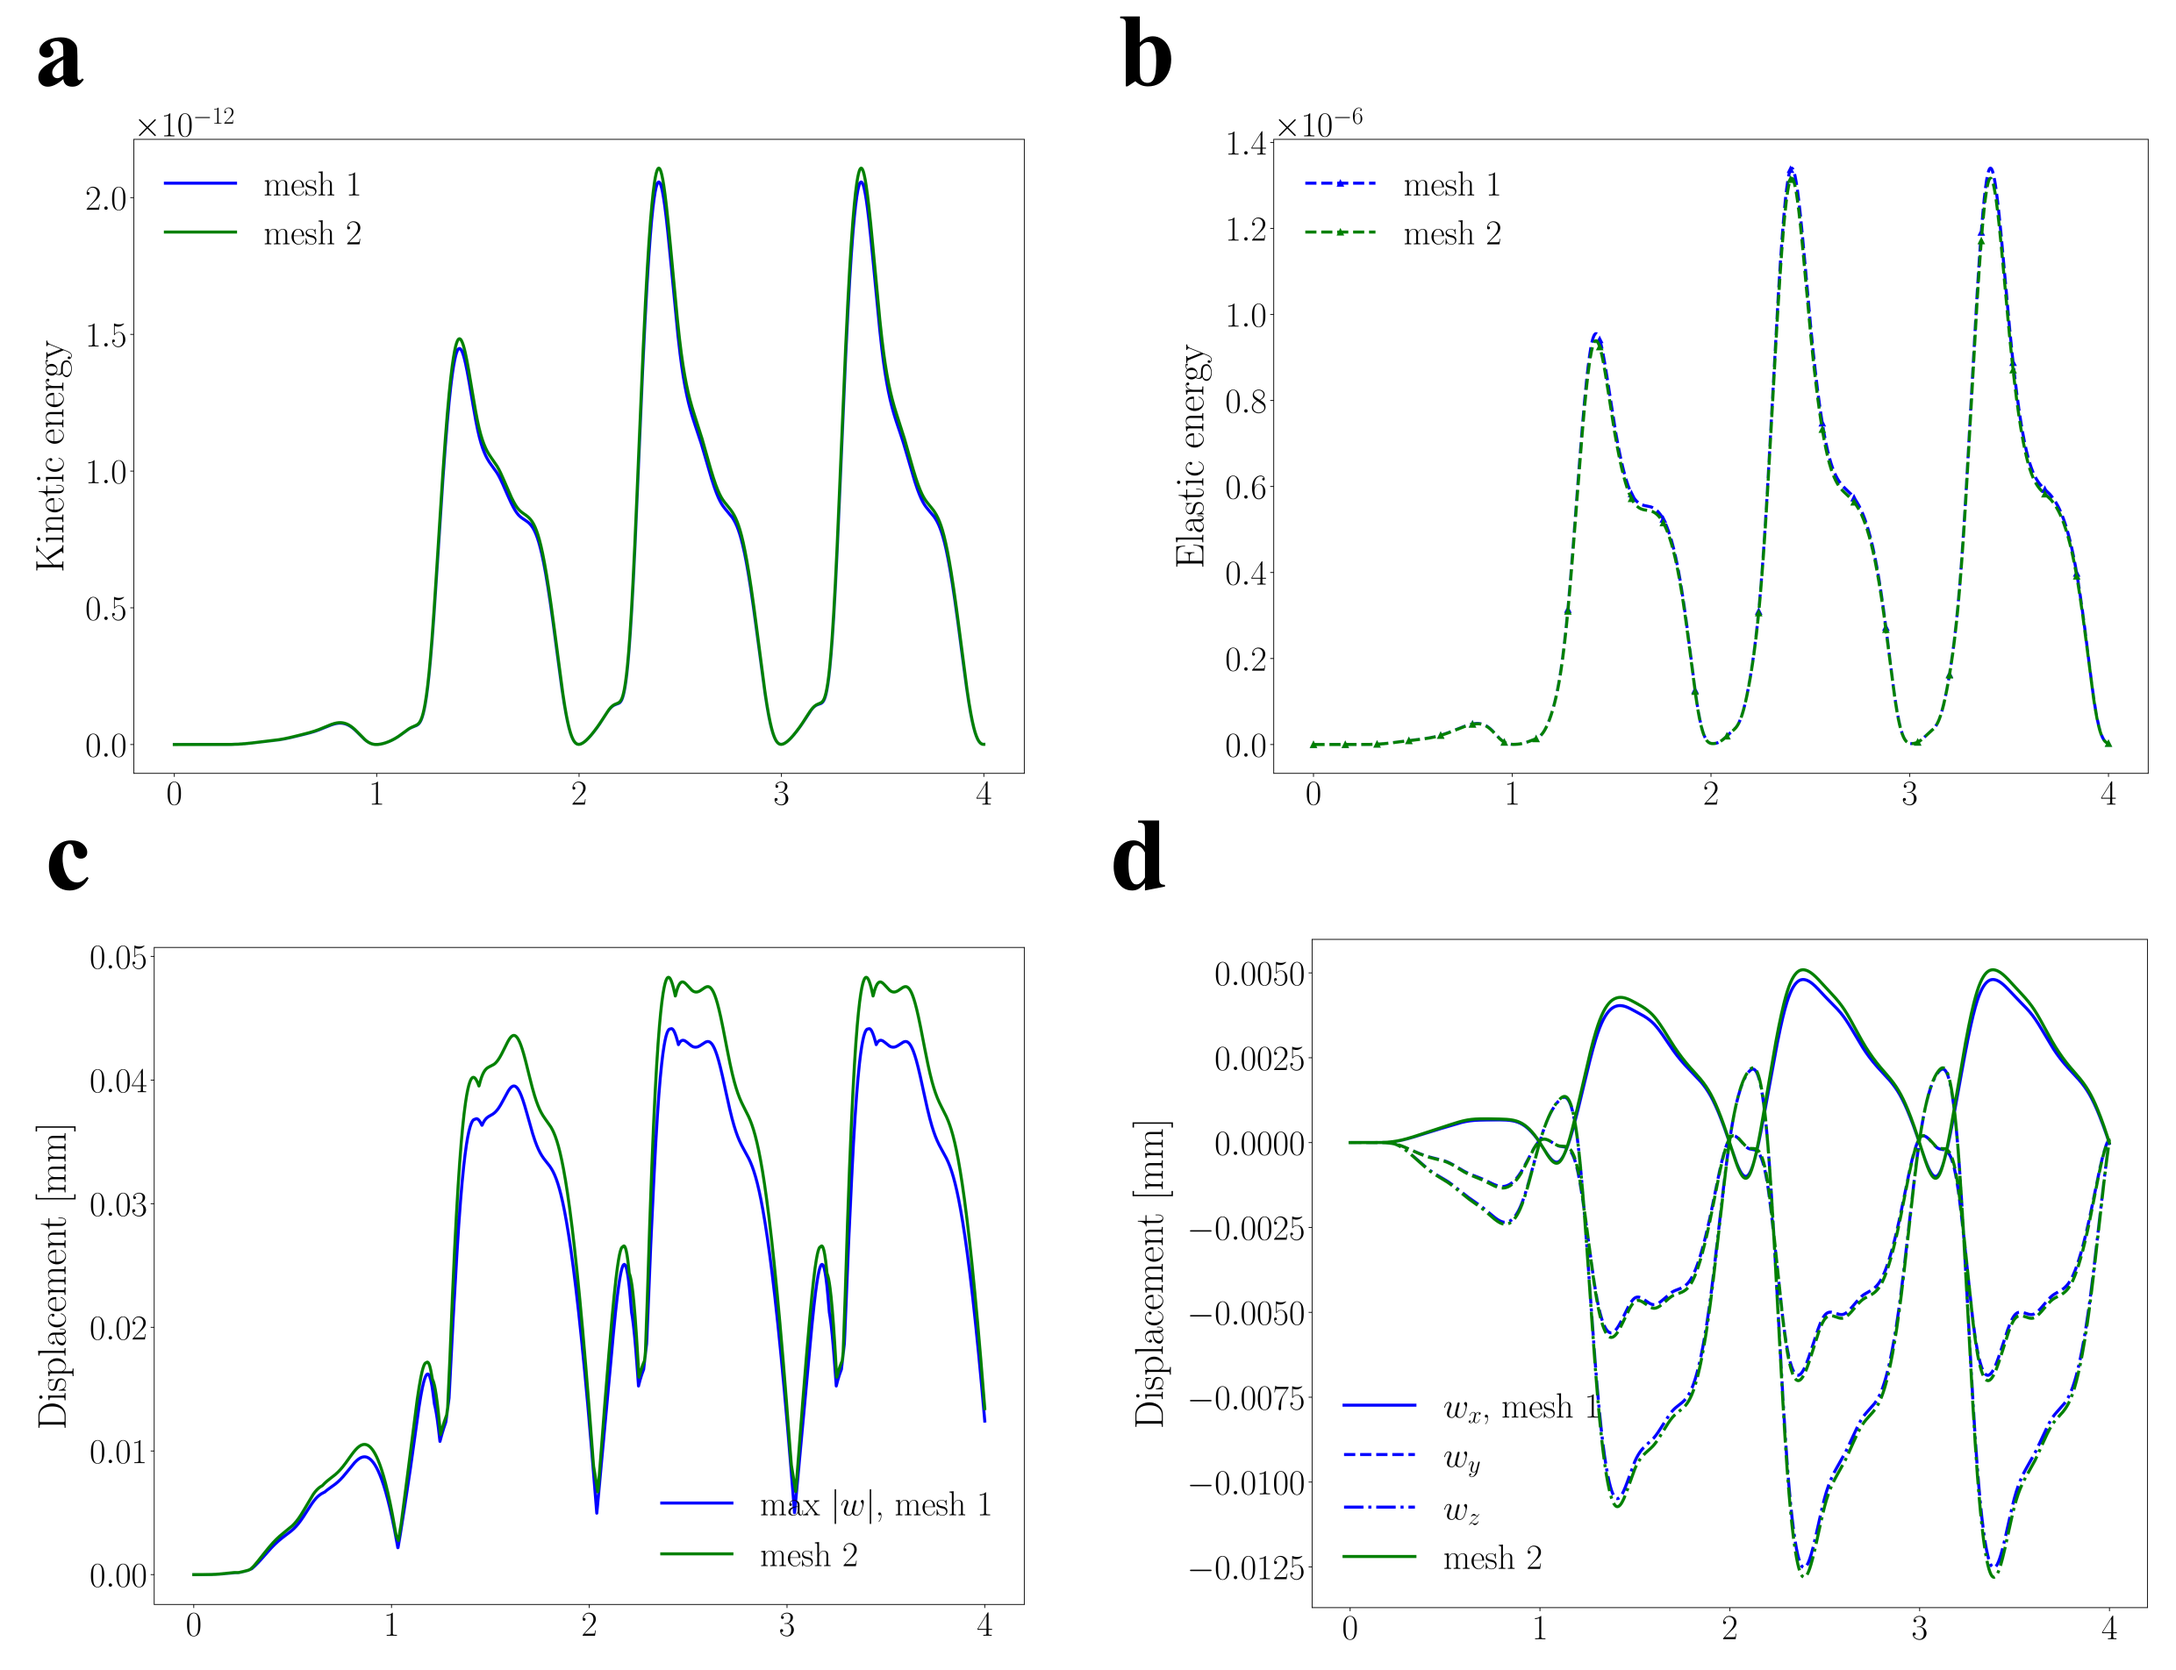
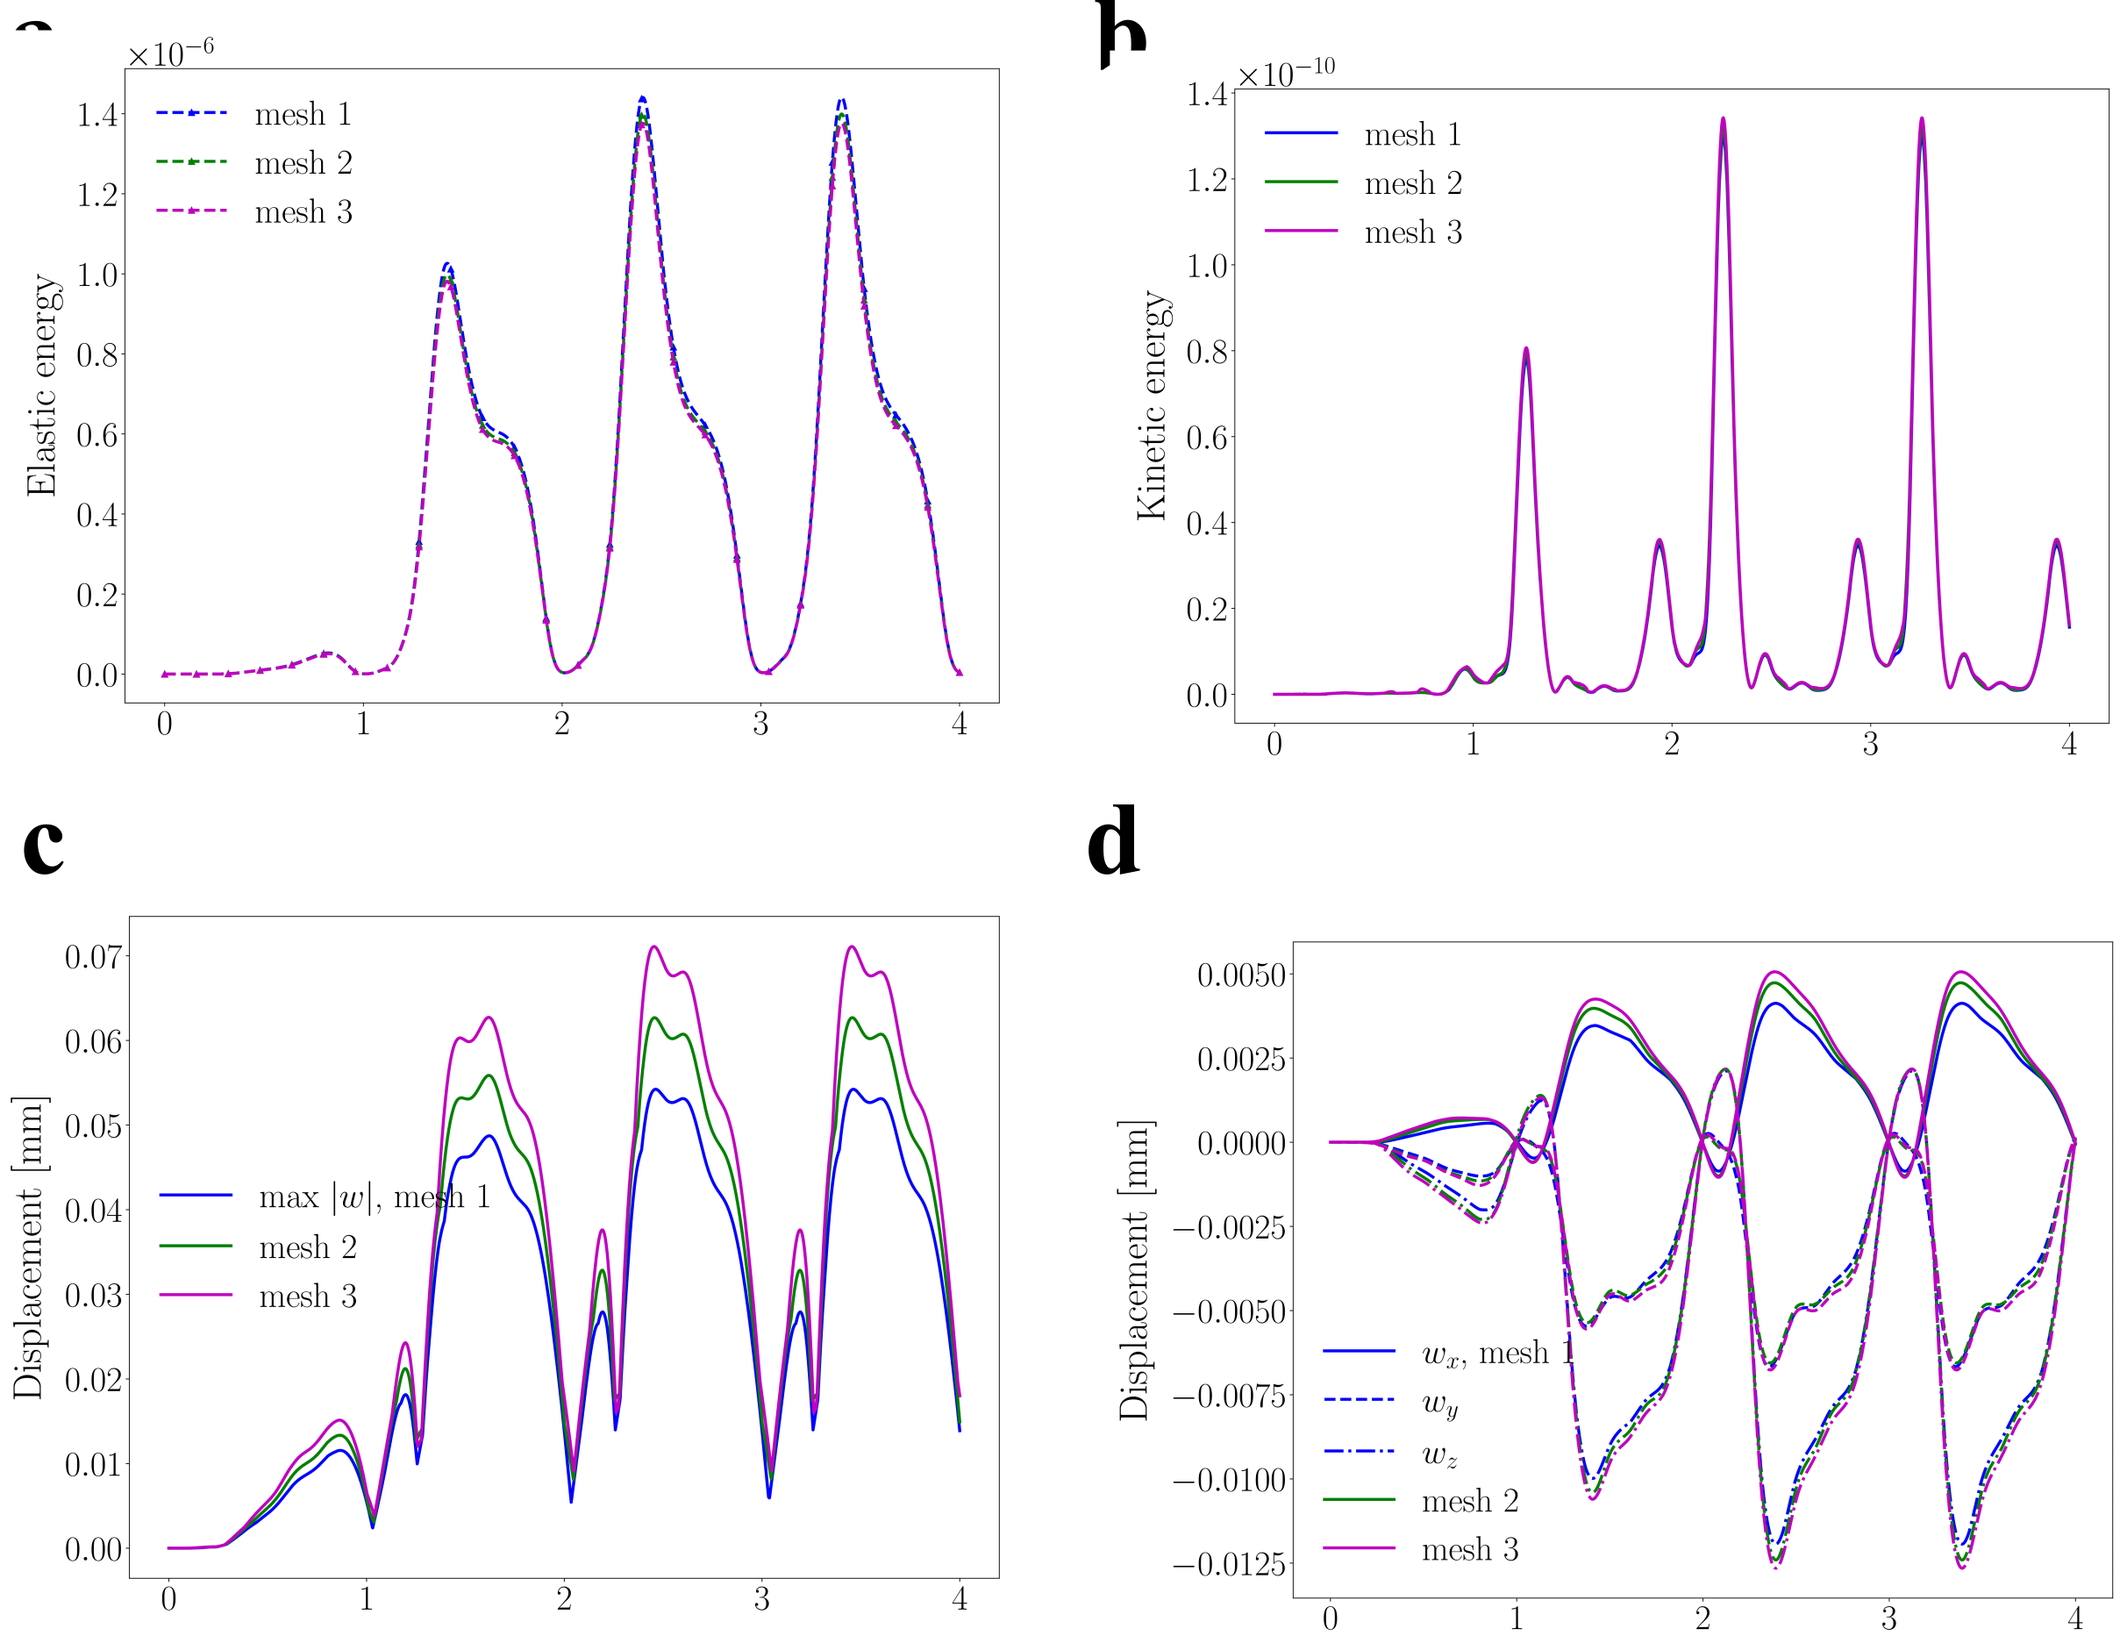
abstract

diff --git a/paper/main.tex b/paper/main.tex
@@ -67,7 +67,7 @@
 \setcounter{footnote}{1}
 
 % Title
-\title{\textbf{Coherent flow structures in brain ventricles}}
+\title{\textbf{Coherent flow structures and fluid inertia in brain ventricles}}
 \author{
     H.~Herlyng, S.~C.~Shadden
 }
@@ -86,7 +86,22 @@
 \maketitle
 
 \begin{abstract}
-    This paper ...
+    The dynamic flow of cerebrospinal fluid in brain ventricles 
+    exhibits flow features on several scales, both spatially and temporally.
+    Understanding such complex time-dependent flow through instantaneous flow
+    variables can deceive understanding of the flow. Here, we analyze brain ventricular
+    cerebrosinal fluid flow from the Lagrangian perspective -- a time-integrated view
+    of the flow. With realistic geometries generated from medical imaging data,
+    we model cerebrospinal fluid flow in human and embroynic zebrafish brain ventricles. 
+    Flow is governed by cardiac pulsations, cerebrospinal fluid secretion and motile cilia 
+    in the human brain, while in the zebrafish brain we consider flow driven solely by motile cilia.
+    The models are implemented and solved with finite element methods. We use the resulting velocity fields to
+    compute finite-time Lyapunov exponent fields and use them to characterize Lagrangian coherent structures.
+    These coherent structures demonstrate prominent flow features in the brain ventricles that resonate
+    well with experimental research. In the human brain ventricles, we asses the role of inertia
+    by considering flow governed by both the Navier-Stokes and the Stokes equations.
+    Comparisons show that solutions to the Stokes equations
+    display less intricate flow features than solutions to the Navier-Stokes equations.
 \end{abstract}
 
 % Notes:
@@ -784,7 +799,7 @@ to calculate FTLE fields.
 \subsubsection{Finite element method for the solid equations}
 The time-dependent linear elasticity equations (\Cref{eq:strong_linear_elasticity_1})
 are solved using a finite element method with
-cubic continuous Lagrange elements for the
+quartic continuous Lagrange elements for the
 spatial discretization. In time, the
 equations are discretized with the Newmark-$\beta$ method,
 for which updates of the displacement $\ww$ and 

diff --git a/src/plot_flow.py b/src/plot_flow.py
@@ -73,7 +73,7 @@ params = {
     "lines.linewidth" : 3,
     "lines.markersize" : 12,
     "legend.fontsize" : 42,
-    "axes.labelsize" :  60,
+    "axes.labelsize" :  56,
     "xtick.labelsize" : 50,
     "ytick.labelsize" : 50,
     "font.family" : "serif",
@@ -93,7 +93,7 @@ fig4, ax4 = plt.subplots(figsize=figsize)
 # Plot flowrate and pressure gradient in the aqueduct
 ax.plot(times, flowrates_aq, color=flowrate_colors[0], linestyle=linestyles[ls_idx], label="Flowrate ")
 ax_.plot(times, pressure_gradients_aq, color=deltap_colors[2], linestyle=linestyles[ls_idx+1],
-         marker='^', markevery=me, label=r"$\Delta P$ "+label_end)
+         marker='^', markevery=me, label=r"$\Delta \overline{p}$ "+label_end)
 
 # Plot flowrates
 ax2.plot(times, flowrates_aq, color=flowrate_colors[0], linestyle=linestyles[ls_idx],
@@ -130,14 +130,14 @@ ax4.plot(times, pressures_lfm, color=deltap_colors[2], linestyle=linestyles[ls_i
 # Configure plots
 ax.legend(loc='upper left', frameon=True, fancybox=False, edgecolor='k')
 ax_.legend(loc='upper right', frameon=True, fancybox=False, edgecolor='k')
-ax.set_ylabel('ml/s', labelpad=0)
-ax_.set_ylabel('mmHg/cm', color=deltap_colors[2], labelpad=0)
+ax.set_ylabel('Flowrate [ml/s]', labelpad=0)
+ax_.set_ylabel('Pressure gradient [mmHg/cm]', color=deltap_colors[2], labelpad=0)
 ax_.tick_params(axis='y', colors=deltap_colors[2])
-ax2.set_ylabel('ml/s')
+ax2.set_ylabel('Flowrate [ml/s]')
 ax2.legend(loc='upper right', frameon=True, fancybox=False, edgecolor='k')
-ax3.set_ylabel('microliters')
+ax3.set_ylabel(r'Cumulative flow volume [$\mu$l]')
 ax3.legend(loc='upper right', frameon=True, fancybox=False, edgecolor='k')
-ax4.set_ylabel('mmHg')
+ax4.set_ylabel('Mean pressure [mmHg]')
 ax4.legend(loc='upper right', frameon=True, fancybox=False, edgecolor='k')
 [axes.set_xlabel('Time [s]') for axes in [ax, ax2, ax3, ax4]]
 

diff --git a/src/plot_deformation_verification.py b/src/plot_deformation_verification.py
@@ -4,8 +4,8 @@ from pathlib import Path
 
 file_extension = ".svg"
 timestep = 0.001
-p_refinement_study = False
-mesh_refinement_study = True
+p_refinement_study = True
+mesh_refinement_study = False
 
 lw = 3
 ms = 12 # Marker size
@@ -82,8 +82,8 @@ if p_refinement_study:
 
 if mesh_refinement_study:
 
-    p = 3
-    mesh_suffixes = [0, 1]
+    p = 2
+    mesh_suffixes = [0, 1, 2]
 
     for j, mesh_suffix in enumerate(mesh_suffixes):
         data_dir = f"../output/mesh_{mesh_suffix}/deformation_p={p}_E={E:.0f}_k={k}_T={T:.0f}/data/"
@@ -120,9 +120,3 @@ if mesh_refinement_study:
     fig_el_en.savefig(fig_dir+f"mesh_refinement_elastic_energies_p={p}"+file_extension)
     fig_md.savefig(fig_dir+f"mesh_refinement_max_displacements_p={p}"+file_extension)
     fig_pd.savefig(fig_dir+f"mesh_refinement_point_displacements_p={p}"+file_extension, bbox_inches='tight')
-
-
-
-# ax_md.plot(times, m_to_mm*max_disp[:, 0], color=colors[j], linestyle=linestyles[0], label=rf"max $w_x$, $p = {p}$" if j==0 else rf"$p = {p}$")
-# ax_md.plot(times, m_to_mm*max_disp[:, 1], color=colors[j], linestyle=linestyles[1], label=rf"max $w_y$" if j==0 else None)
-# ax_md.plot(times, m_to_mm*max_disp[:, 2], color=colors[j], linestyle=linestyles[2], label=rf"max $w_z$" if j==0 else None)

diff --git a/src/plot_colorbar.py b/src/plot_colorbar.py
@@ -20,12 +20,21 @@ if __name__=='__main__':
     if orientation=="horizontal":
         fig = plt.figure(figsize=(8, 1.75))
         ax = fig.add_axes([0.1, 0.35, 0.8, 0.2])
-        cmap = getattr(colormaps, cmap_name)
+        try:
+            cmap = getattr(colormaps, cmap_name)
+        except:
+            cmap = matplotlib.colormaps.get_cmap(cmap_name)
+
         cb = matplotlib.colorbar.ColorbarBase(ax, cmap=cmap, orientation='horizontal')
-        cb.set_ticks([0, 0.025/0.10, 0.050/0.10, 0.075/0.10,  1.0])
-        cb.set_ticklabels([0, 0.025, 0.050, 0.075,  0.10])
+        cb_max = 0.1
+        cb.set_ticks([0, 0.25, 0.5, 0.75, 1.0])
+        cb.set_ticklabels([0,
+                           f"{0.25*cb_max:.2g}",
+                           f"{0.50*cb_max:.2g}",
+                           f"{0.75*cb_max:.2g}",
+                           f"{cb_max:.2g}"])
         ax.tick_params(axis='x', labelsize=35)
-        ax.set_title(r"Backward FTLE value", fontsize=46, pad=20.0)
+        ax.set_title(r"Attracting FTLE value", fontsize=46, pad=20.0)
         fig_name = f"../output/illustrations/colorbars/{orientation}_colorbar_{cmap_name}.png"
 
     fig.tight_layout(pad=0)
